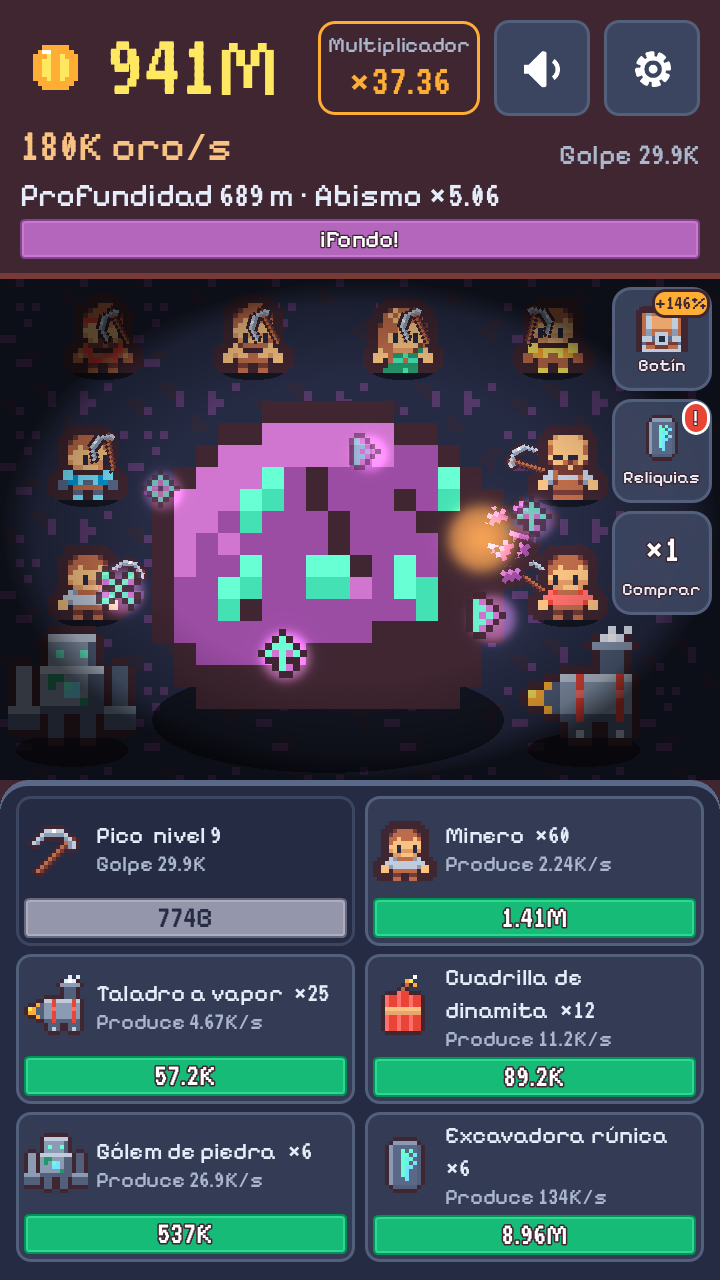
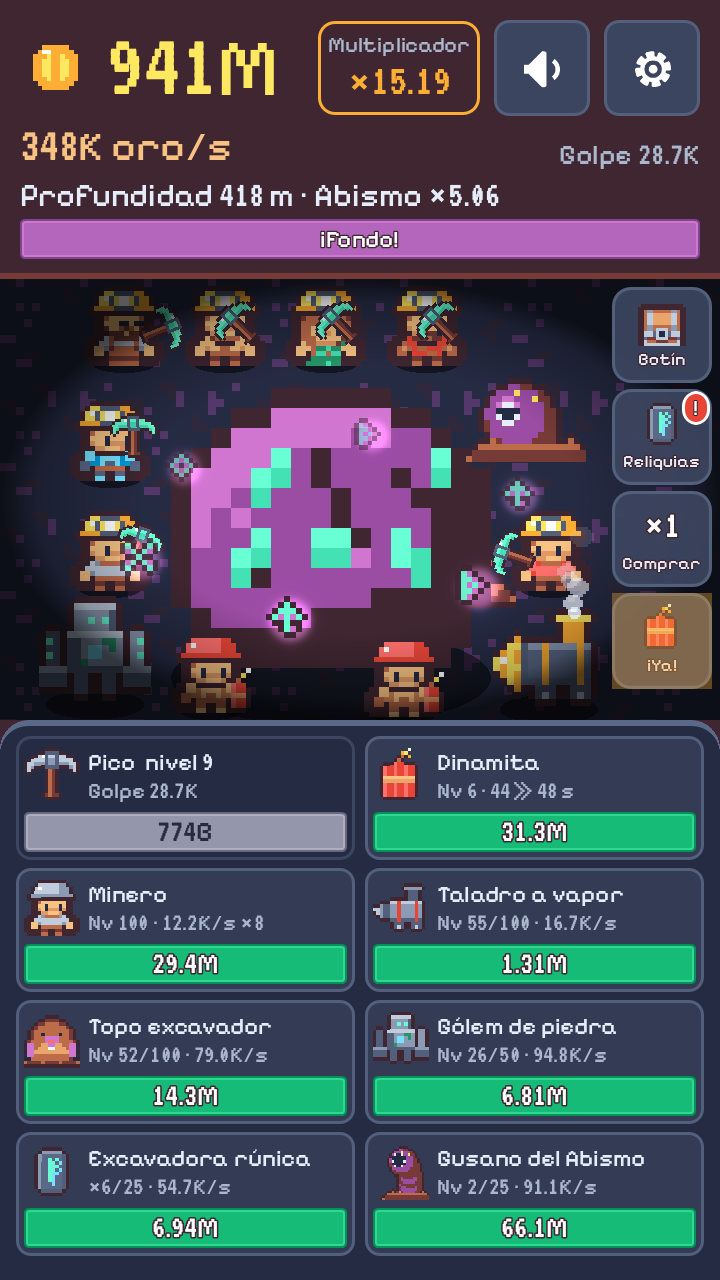
v0.6.0: capturas de itch.io nuevas y CLAUDE.md con la escena viva

diff --git a/CLAUDE.md b/CLAUDE.md
@@ -31,15 +31,17 @@ CREDITS.md     # licencia y autor de CADA asset de terceros (obligatorio)
 ```
 
 ## Pantalla y arte (F2-A)
-- **Layout vertical** (`game/main.tscn`), pensado para celular, **sin pestañas**: arriba el HUD (oro, **oro/s grande debajo del oro**, golpe, multiplicador, profundidad con barra al próximo bioma); al medio la mina (`game/mine_view.gd`); abajo las **mejoras en dos columnas, siempre a la vista** (pico y 5 generadores, 3 filas sin deslizar a 720×1280). Cada mejora es una **tarjeta que se toca entera** (`game/shop_card.gd` → `generator_card.gd`, `pick_card.gd`) con la franja del precio abajo.
-- **Botones del costado** (`%SideBar`, arriba a la derecha de la mina, `game/side_button.gd`): **Botín** y **Reliquias** abren un cartel (`game/side_panel.gd`; el juego sigue atrás; se cierra con "Cerrar") y **×1/×10/Máx** es un solo botón que va cambiando. Avisos en la esquina del de Reliquias: cuántas hay, y **!** rojo cuando ya se puede volver a la superficie. La roca y la cuadrilla van corridas 32 px a la izquierda (`COMPOSITION_SHIFT`) y los avisos de cofre se centran en lo que queda libre (`SIDE_COLUMN_WIDTH`).
+- **Layout vertical** (`game/main.tscn`), pensado para celular, **sin pestañas**: arriba el HUD (oro, **oro/s grande debajo del oro**, golpe, multiplicador, profundidad con barra al próximo bioma); al medio la mina (`game/mine_view.gd`); abajo las **mejoras en dos columnas, siempre a la vista**: 8 tarjetas en 4 filas sin deslizar a 720×1280 (Pico y Dinamita arriba; Minero, Taladro, Topo, Gólem, Excavadora y Gusano). Cada mejora es una **tarjeta que se toca entera** (`game/shop_card.gd` → `generator_card.gd`, `pick_card.gd`, `ability_card.gd`) con la franja del precio abajo. El nombre va en una línea; abajo "×5/25 · 5/s" o "Nv 23/25 · 40/s" (`GeneratorArt.count_text`: mineros "×" hasta 7 y "Nv" desde 8; taladro, topo, gólem y gusano siempre "Nv"; excavadora "×").
+- **Botones del costado** (`%SideBar`, arriba a la derecha de la mina, `game/side_button.gd`): 4 botones de 96 px; **Botín** y **Reliquias** abren un cartel (`game/side_panel.gd`; el juego sigue atrás; se cierra con "Cerrar") y **×1/×10/Máx** es un solo botón que va cambiando. Avisos en la esquina del de Reliquias: cuántas hay, y **!** rojo cuando ya se puede volver a la superficie. La roca y la cuadrilla van corridas 32 px a la izquierda (`COMPOSITION_SHIFT`) y los avisos de cofre se centran en lo que queda libre (`SIDE_COLUMN_WIDTH`).
 - **La mina, vista desde arriba**: piso por bioma (mosaico de 16×16 mezclado al 40% con el color base: bajo contraste) con una viñeta oscura radial en los bordes; la roca mide 22× (352 px de diseño, ~1,6× la anterior), centrada y a 55% de la altura; los 8 mineros, el gólem y el taladro están parados alrededor **sin tocar la roca** (la roca ocupa el centro: abajo no hay lugar). Cada sprite tiene una **sombra elíptica a los pies** (`shadow_ellipses()`), se dibuja delante el de más abajo, y cada minero **mira hacia la roca** (variantes `miner_N_left/right/down.png`: los ojos corridos 1 px).
 - **Colores** (un rol por color): **verde** = se puede comprar (la franja del precio de la tarjeta); **gris** = no alcanza (franja gris y tarjeta apagada; en los botones de acción es el estilo `disabled`); **rojo** = solo el prestigio (su botón, su confirmación y el **!** que avisa que se puede); todo lo demás es **neutro** (tarjetas, botones del costado, cancelar, avisos). `tests/layout_scene_test.gd` lo verifica.
 - **Aviso del último cofre** (cartel de Botín): "¡Cofre Raro! +4.02K de oro" (y la reliquia si la dio); en una partida sin nada ganado (volver a la superficie, reiniciar) vuelve a "Todavía no salió ningún cofre".
 - **Medidas**: la pantalla se diseña a 720 px de ancho. Con `aspect = expand`, un celular de 360×640 es 720×1280 y uno de 412×915 es 720×1599. **Todo lo que se toca mide ≥ 96 px de diseño** (= 48 px en 360 de ancho). Los tests lo verifican en esos dos tamaños (`tests/layout_scene_test.gd`), igual que el texto cortado y el orden de dibujo.
 - **Pixel art**: filtro `Nearest` y escala entera (cada píxel de sprite = N×N en pantalla). La UI va con filtro lineal (los botones del UI Pack son vectoriales).
 - **Paleta**: los 27 colores de Tiny Dungeon (`game/palette.gd`). Cada bioma tiene la suya (`game/biome_palette.gd`: fondo, roca, vetas, acento de la barra), indexada por el id del bioma del balance; un bioma nuevo en `balance.json` necesita colores y arte (`tests/assets_test.gd` lo exige).
-- **Sprites**: personajes y cofre salen de Tiny Dungeon (`assets/sprites/tiny_dungeon/`, solo las tiles usadas). Lo que no trae el pack (roca y piso por bioma, taladro, gólem, dinamita, runas, moneda, pico, gema), los mineros recoloreados y sus variantes de mirada los dibuja `tools/generate_sprites.gd` en 16×16 → `assets/sprites/generated/`. Volver a correrlo reescribe los mismos archivos.
+- **Sprites**: personajes y cofre salen de Tiny Dungeon (`assets/sprites/tiny_dungeon/`, solo las tiles usadas). Lo que no trae el pack (roca y piso por bioma, taladro, gólem, topo, gusano, dinamiteros, cascos, picos, dinamita, runas, moneda, gema, vapor), los mineros con casco y sus variantes de mirada los dibuja `tools/generate_sprites.gd` → `assets/sprites/generated/`, en 16×16 salvo el gusano (24×24). Volver a correrlo reescribe los mismos archivos. **El pico va de frente, con dos puntas iguales**: inclinado o con la cabeza hacia un lado se lee como una hoz. La lámina aprobada de v0.6 está en `docs/lamina-v06.png` (con tres cambios posteriores: taladro más distinto por nivel, ojos turquesa en el gólem de cristal y garras oscuras a los costados del topo).
+- **Aspectos por nivel** (tier = hitos alcanzados, `Economy.milestone_tier`; `MineView.set_tiers`): mineros: 25 casco con linterna, 50 pico de oro, 100 casco dorado y pico de gema; taladro: broca grande y bandas doradas, broca y chimenea de oro, broca de gema y núcleo; gólem: runas, puños de oro, cristal; topo: casco, garras de oro, garras de gema; gusano: púas, dientes de oro, cristal.
+- **Tropa animada** (`mine_view.gd`): máx 7 mineros; el gólem golpea, el taladro tiembla y echa vapor, el topo entra y sale cambiando de lugar y el gusano muerde la roca por delante (va justo después de ella en el orden de dibujo). La excavadora rúnica son las runas en órbita. Ciclos en `MOLE_CYCLE`, `GOLEM_CYCLE`, `WORM_CYCLE`.
 - **Tema**: `ui/theme.tres` (botones del UI Pack + las fuentes) lo arma `tools/build_theme.gd`; las escenas eligen estilos con `theme_type_variation` (`ButtonRed`, `ButtonNeutral`, `CardButton`, `SideButton`, `PriceGreen`...). Del UI Pack solo se importan los colores con rol (verde, rojo, gris).
 - **No usar `z_index`** en la mina: pondría los sprites por encima del cartel modal y del panel de debug. El orden de dibujo es el orden de los hijos (el cartel va último).
 - Comandos útiles (desde la raíz): tests rápidos `powershell -File tools/run_tests.ps1` (todos con `-All`, solo los lentos con `-Slow`; ver abajo); sprites `godot --headless --path . --script res://tools/generate_sprites.gd` y luego `godot --headless --path . --import`; tema `godot --headless --path . --script res://tools/build_theme.gd`; capturas `godot --path . --windowed --script res://tools/screenshot.gd -- <carpeta>` (abre una ventana; no toca la partida guardada); simulador de balance `godot --headless --path . --script res://tools/simulate_economy.gd`; portada y capturas de itch.io `godot --path . --windowed --script res://tools/itch_art.gd` (→ `docs/itch/`); build web y zip `powershell -File tools/export_web.ps1`.
@@ -56,7 +58,7 @@ CREDITS.md     # licencia y autor de CADA asset de terceros (obligatorio)
 - **Silencio y Opciones**: en la fila del oro, a la derecha del multiplicador, un botón de silencio (`%SoundButton`, íconos `audioOn/audioOff` de Game Icons que siguen a `Settings.changed`) y un engranaje (`%OptionsButton`) que abre `game/options_panel.gd`: volumen de música y de SFX (sliders de 96 px; al soltar el de SFX suena un golpe de muestra), "Reducir efectos", pantalla completa, "Opinar", "Créditos" (`game/credits_panel.gd`), "Guardar copia" / "Restaurar copia" (solo en la web; ver "Guardado en iPhone") y la versión. El panel va después de los carteles de Botín y Reliquias y antes del cartel modal. El slider y el interruptor salen del tema (`tools/build_theme.gd`). `tests/options_test.gd` lo verifica.
 - **Oro que no entra**: el oro comparte fila con esos botones; si el número no entra, la fuente se achica de a 4 px hasta 48 (`_fit_gold_label`) y vuelve a 80 cuando entra. El peor caso del formato es "8.88Qa".
 - **Golpe** (`MineView.play_hit`): la roca se aplasta contra el piso (pivote abajo al centro) y rebota; la mina se sacude poco (`shake_offset`: se corren la roca, la cuadrilla y el piso, no la mina ni el HUD); sale el oro flotando por carriles alternados (máx 12 a la vez) en `FxLayer` (último hijo de la mina, no come toques, recorta); vibra 25 ms. Además saltan astillas (`chips_<bioma>.png`: 4 dibujos de 4x4 en una hoja de 16x16 con las sombras de la roca del bioma; `CPUParticles2D` con animación 2x2 elige uno al azar) y, con 30% de chance, gemas (`gem.png`); los emisores son un grupo fijo que se reusa. Con "reducir efectos" no hay sacudida ni vibración y salen la mitad de partículas. `tests/juice_test.gd` lo verifica; `tools/screenshot.gd` tiene un estado `7_golpe`.
-- **Escena viva**: las tarjetas de mejora, los botones del costado, silencio, opciones y prestigio rebotan (`game/juice.gd`: escala con pivote, no toca el layout); la cuadrilla nueva crece desde los pies (no al cargar una partida). Cada minero pica en loop con su pico (`pick.png` a escala 3, del lado de la roca, se espeja), con fases repartidas por la razón áurea (`pick_angle`). La dinamita (sin sprite propio) explota en el borde de la roca: cartucho con mecha, astillas hacia afuera, destello (`circle_05` del Particle Pack, aditivo, filtro lineal; no con "reducir efectos") y sonido; cada `4 / √cantidad` s, nunca menos de 0,7 s. Las excavadoras rúnicas hacen orbitar una runa cada una (máx 6; glifos `runes_<bioma>.png` con los colores `rune`/`rune_light` de BiomePalette y un aura del mismo color); las de atrás, más chicas y apagadas. `clear_effects()` limpia lo que está en el aire (no las runas). Lo cubren `tests/scene_life_test.gd` y `tests/juice_test.gd` (base común `tests/scene_fx_base.gd`).
+- **Escena viva**: las tarjetas de mejora, los botones del costado, silencio, opciones y prestigio rebotan (`game/juice.gd`: escala con pivote, no toca el layout); la cuadrilla nueva crece desde los pies (no al cargar una partida). Cada minero pica en loop con su pico (`pick.png` a escala 3, del lado de la roca, se espeja), con fases repartidas por la razón áurea (`pick_angle`). Al usar la Dinamita los dos dinamiteros tiran un cartucho cada uno (`MineView.throw_dynamite`): vuelan en arco, explotan en la roca (destello `circle_05`, astillas, sacudida fuerte, número grande) y suena una sola vez (`dynamite_exploded`); sin destello ni sacudida con "reducir efectos". Las excavadoras rúnicas hacen orbitar una runa cada una (máx 6; glifos `runes_<bioma>.png` con los colores `rune`/`rune_light` de BiomePalette y un aura del mismo color); las de atrás, más chicas y apagadas. `clear_effects()` limpia lo que está en el aire (no las runas). Lo cubren `tests/scene_life_test.gd` y `tests/juice_test.gd` (base común `tests/scene_fx_base.gd`).
 - **Cofre**: cae desde arriba de la mina y se apoya sobre la roca con rebote, con un brillo que respira y estrellas (`circle_05` y `star_06` del Particle Pack) del color de la rareza (`RARITY_COLORS` de `main.gd`); máx 3 a la vez. Llueven monedas por toda la mina (`MineView.rain_coins`; cuántas según `COINS_BY_RARITY`; la mitad con "reducir efectos") y sale un aviso de una línea: "¡Cofre Legendario! +549K de oro · +1 reliquia". El legendario (`SPECIAL_RARITY`) pausa ~0,3 s con cámara lenta (`Engine.time_scale`; Economy no se frena) y destella en toda la pantalla (`game/screen_fx.gd`, entre Opciones y el cartel; sin destello con "reducir efectos"). `tests/chest_test.gd` lo verifica.
 - **Cambio de bioma**: al bajar a uno más profundo, el piso y la roca nuevos se funden sobre los viejos (`show_biome(id, true)`, `biome_blend`, `OldRock`), sale un cartel pasajero "Bioma Roca · ×1.50 de oro" (no modal, no come toques) y suena; al abrir el juego o volver a la superficie, el cambio es inmediato y sin cartel. La música sigue al bioma (siempre, también al abrir o volver): `main.gd` se lo cuenta al director de música. `tests/transitions_test.gd` y `tests/sounds_test.gd` lo verifican.
 - **Vuelta offline**: el mismo cartel de siempre (`Modal`) festeja con `celebrate()`: un contador grande que sube de 0 al oro juntado en 1,4 s y una lluvia de monedas (`coin.png`) entre el oscurecido y el cartel, con sonido `coins`. Cualquier otro cartel no muestra contador ni monedas.
@@ -81,11 +83,13 @@ CREDITS.md     # licencia y autor de CADA asset de terceros (obligatorio)
   - La música arranca recién con el primer toque (`Audio.waiting_for_gesture`). Chrome igual avisa (warning) que el AudioContext arranca suspendido: es del motor.
 
 ## Balance (ajustable en data/balance.json)
-Ritmo buscado (v0.5): **primera bajada a 300 m en 30–40 min** de juego activo; las siguientes, 20 y bajando hasta ~10 min. Alargar está bien: las ganas de llegar a la próxima mejora son lo que engancha. Antes de publicar un cambio de balance, simularlo con `godot --headless --path . --script res://tools/simulate_economy.gd` (usa el Economy real): hoy da 39 / 35 / 30 min con 1,5 / 3 / 5 golpes/s, cofres ~19% del oro, golpes 8–21%, Abismo a ~2,7 h sin reliquias y ~54 min con 10. El simulado no para de golpear y compra casi perfecto: una persona tarda algo más.
+Ritmo (v0.6, aprobado): primera bajada a 300 m en **~29 min** jugando a 3 golpes/s y usando la dinamita (32 / 29 / 25 min a 1,5 / 3 / 5 golpes/s; sin usarla nunca 39 / 35 / 30); las siguientes, 17 y bajando hasta ~7 min; Abismo a ~2 h sin reliquias y ~37 min con 10. Alargar está bien: las ganas de llegar a la próxima mejora son lo que engancha. Antes de publicar un cambio de balance, simularlo con `godot --headless --path . --script res://tools/simulate_economy.gd` (usa el Economy real y la dinamita entre 0 y 20 s después de lista): cofres ~13% del oro, dinamita ~26%. El simulado no para de golpear y compra casi perfecto: una persona tarda algo más.
 - Generadores (oro/s base, costo base, crecimiento de costo ×1.15 por unidad):
-  - Minero 1 / 25 · Taladro a vapor 5 / 600 · Cuadrilla de dinamita 25 / 10.000 · Gólem de piedra 120 / 180.000 · Excavadora rúnica 600 / 3.000.000
+  - Minero 1 / 25 · Taladro a vapor 5 / 600 · Topo excavador 25 / 10.000 · Gólem de piedra 120 / 180.000 · Excavadora rúnica 600 / 3.000.000 · Gusano del Abismo 3.000 / 50.000.000 (solo se llega bajando más allá de ~330 m: meta de las bajadas con reliquias)
+  - El orden en `generators` es el del guardado (`owned` por posición): el Topo ocupa el lugar de la vieja Cuadrilla de dinamita, así esas pasan a ser topos solas. Agregar generadores nuevos solo al final.
+- **Dinamita** (`ability`, habilidad con botón en la columna del costado): golpe = máx(24 s de producción + 4 s por nivel, 50 golpes), recarga 60 s, 10 niveles, costo del nivel n `2000 × 5^(n−1)`; se revela con el primer Taladro (`reveal_with: mole`). No hace crítico ni da cofre. El nivel se reinicia al volver a la superficie; la recarga se guarda y corre con el juego cerrado. En el código es genérica (`Economy.use_ability`).
 - Costo de comprar k unidades: `c * 1.15^n * (1.15^k - 1) / 0.15`
-- **Hitos** (`milestones`): con 25, 50 y 100 unidades ese generador produce el doble cada vez (×2, ×4, ×8). La tarjeta muestra "42/s · 21/25"; al llegar, aviso en la mina y sonido.
+- **Hitos** (`milestones`): con 25, 50 y 100 unidades ese generador produce el doble cada vez (×2, ×4, ×8). La tarjeta muestra "Nv 21/25 · 42/s"; al llegar, aviso en la mina, sonido y aspecto nuevo.
 - **Generadores ocultos**: cada uno es "???" (ícono en silueta) hasta comprar el anterior. Lo revelado se guarda y sigue visible después de volver a la superficie; empezar de cero lo oculta. La regla vive en `Economy.is_generator_revealed`; quien impide comprarlo es la tarjeta.
 - Pico: golpe = `2^nivel * mult + 6% del oro/s`; costo = `150 * 12^nivel`
 - **Críticos** (`crit`): 8% de chance, el golpe vale ×2. Número grande y naranja, gemas, más sacudida y sonido propio.
@@ -135,8 +139,8 @@ Solo existe en builds de debug (`OS.is_debug_build()`): el export release (el de
 Versiones (en orden):
 - [x] **v0.4.2 Arreglos urgentes**: guardado en iPhone (mitigado; ver "Web (F4)") y pestaña oculta menos de 2 min = juego activo.
 - [x] **v0.5 Balance y claridad**: primera bajada a 300 m en 30–40 min, AFK al 25%, críticos, cofres de oro, hitos y generadores "???" (diseño en `docs/superpowers/specs/2026-11-25-v05-balance-claridad-design.md`).
-- [ ] **v0.6 Escena viva**.
-- [ ] **v0.7 Árbol de reliquias + logros** que dan fragmentos de reliquia.
+- [x] **v0.6 Escena viva**: dinamita como habilidad, Topo y Gusano, aspectos por nivel y tropa animada, pico nuevo.
+- [ ] **v0.7 Árbol de reliquias + logros** que dan fragmentos de reliquia (especificación en `docs/arbol-reliquias.md`).
 - [ ] **v0.8 Guardado en la nube + ranking** semanal e histórico, con **Puntos de Leyenda** (nunca se gastan; salen de la profundidad récord, las reliquias totales y los logros).
 
 Fases:
